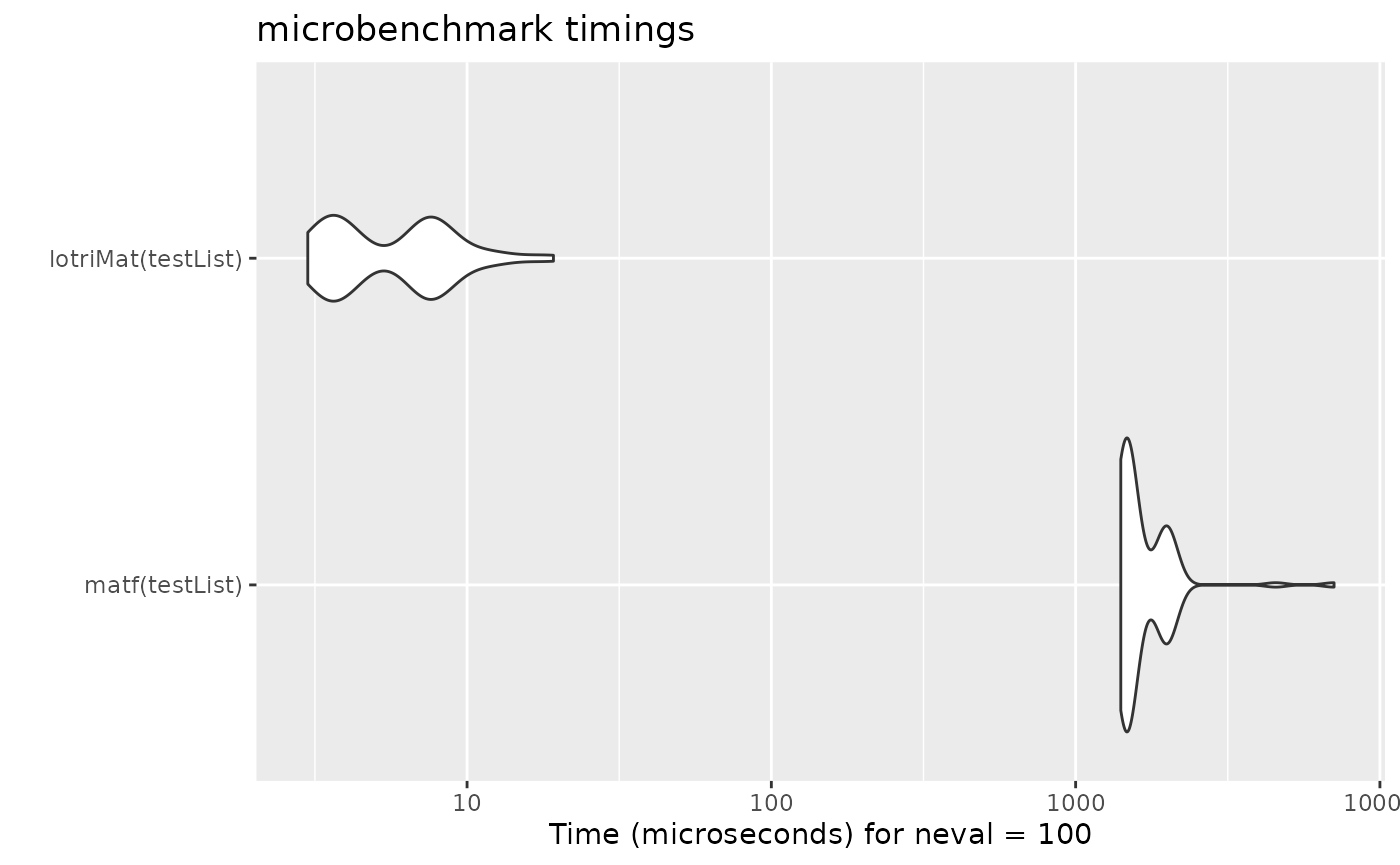
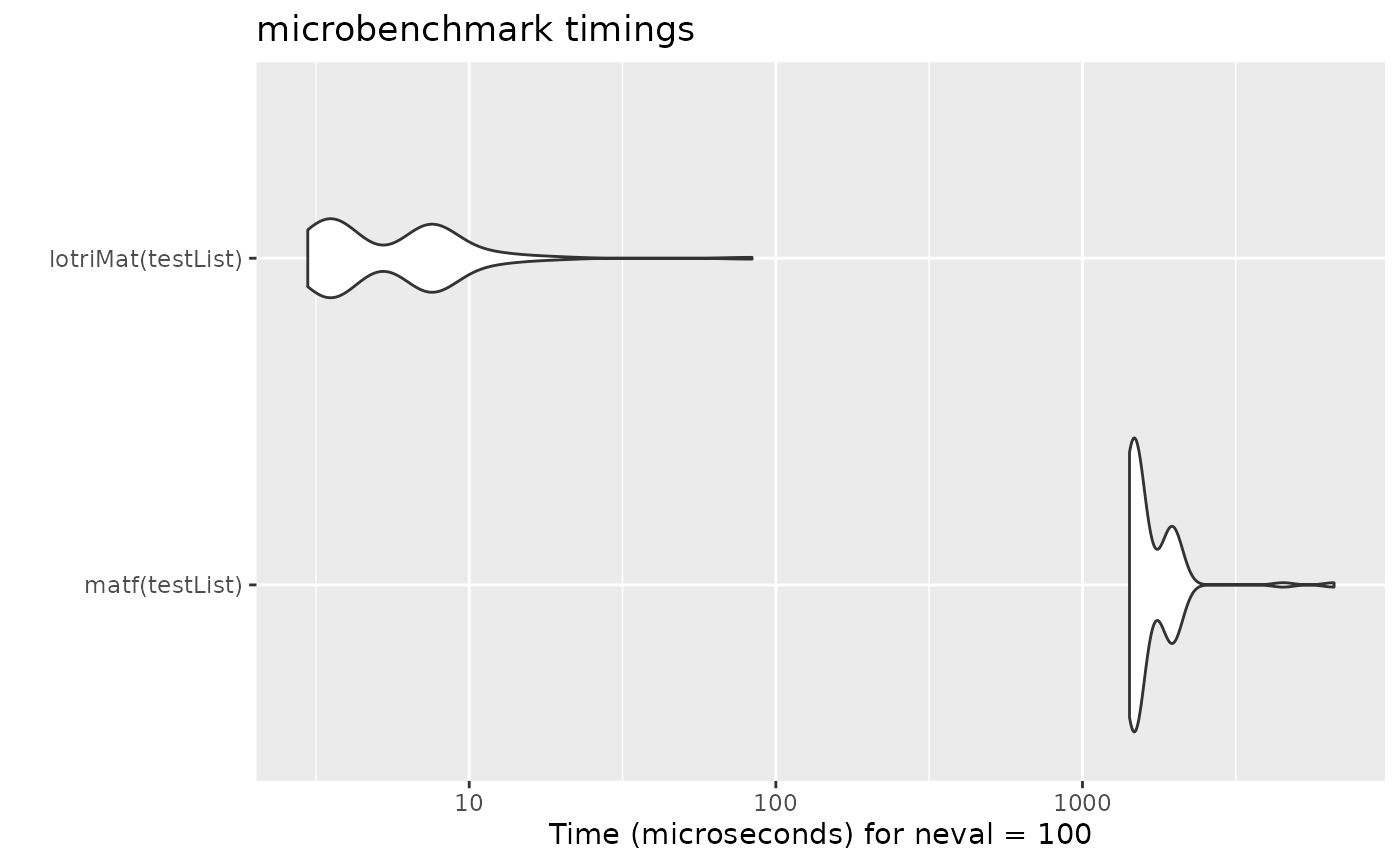
Deploying to gh-pages from @ nlmixr2/lotri@605e670a93a68d4b183b5b9a7d8c4a63ca274262 🚀

diff --git a/reference/dot-lotriPointers.html b/reference/dot-lotriPointers.html
@@ -59,34 +59,34 @@
     <div class="sourceCode"><pre class="sourceCode r"><code><span class="r-in"><span></span></span>
 <span class="r-in"><span><span class="fu">.lotriPointers</span><span class="op">(</span><span class="op">)</span></span></span>
 <span class="r-out co"><span class="r-pr">#&gt;</span> $lotriLstToMat</span>
-<span class="r-out co"><span class="r-pr">#&gt;</span> &lt;pointer: 0x7fd35de342c0&gt;</span>
+<span class="r-out co"><span class="r-pr">#&gt;</span> &lt;pointer: 0x7f48fd8112c0&gt;</span>
 <span class="r-out co"><span class="r-pr">#&gt;</span> </span>
 <span class="r-out co"><span class="r-pr">#&gt;</span> $asLotriMat</span>
-<span class="r-out co"><span class="r-pr">#&gt;</span> &lt;pointer: 0x7fd35de32460&gt;</span>
+<span class="r-out co"><span class="r-pr">#&gt;</span> &lt;pointer: 0x7f48fd80f460&gt;</span>
 <span class="r-out co"><span class="r-pr">#&gt;</span> </span>
 <span class="r-out co"><span class="r-pr">#&gt;</span> $lotriSep</span>
-<span class="r-out co"><span class="r-pr">#&gt;</span> &lt;pointer: 0x7fd35de35fb0&gt;</span>
+<span class="r-out co"><span class="r-pr">#&gt;</span> &lt;pointer: 0x7f48fd812fb0&gt;</span>
 <span class="r-out co"><span class="r-pr">#&gt;</span> </span>
 <span class="r-out co"><span class="r-pr">#&gt;</span> $lotriAllNames</span>
-<span class="r-out co"><span class="r-pr">#&gt;</span> &lt;pointer: 0x7fd35de36550&gt;</span>
+<span class="r-out co"><span class="r-pr">#&gt;</span> &lt;pointer: 0x7f48fd813550&gt;</span>
 <span class="r-out co"><span class="r-pr">#&gt;</span> </span>
 <span class="r-out co"><span class="r-pr">#&gt;</span> $lotriGetBounds</span>
-<span class="r-out co"><span class="r-pr">#&gt;</span> &lt;pointer: 0x7fd35de32a00&gt;</span>
+<span class="r-out co"><span class="r-pr">#&gt;</span> &lt;pointer: 0x7f48fd80fa00&gt;</span>
 <span class="r-out co"><span class="r-pr">#&gt;</span> </span>
 <span class="r-out co"><span class="r-pr">#&gt;</span> $lotriMaxNu</span>
-<span class="r-out co"><span class="r-pr">#&gt;</span> &lt;pointer: 0x7fd35de35a40&gt;</span>
+<span class="r-out co"><span class="r-pr">#&gt;</span> &lt;pointer: 0x7f48fd812a40&gt;</span>
 <span class="r-out co"><span class="r-pr">#&gt;</span> </span>
 <span class="r-out co"><span class="r-pr">#&gt;</span> $isLotri</span>
-<span class="r-out co"><span class="r-pr">#&gt;</span> &lt;pointer: 0x7fd35de36430&gt;</span>
+<span class="r-out co"><span class="r-pr">#&gt;</span> &lt;pointer: 0x7f48fd813430&gt;</span>
 <span class="r-out co"><span class="r-pr">#&gt;</span> </span>
 <span class="r-out co"><span class="r-pr">#&gt;</span> $lotriRcm</span>
-<span class="r-out co"><span class="r-pr">#&gt;</span> &lt;pointer: 0x7fd35de410f0&gt;</span>
+<span class="r-out co"><span class="r-pr">#&gt;</span> &lt;pointer: 0x7f48fd81e0f0&gt;</span>
 <span class="r-out co"><span class="r-pr">#&gt;</span> </span>
 <span class="r-out co"><span class="r-pr">#&gt;</span> $lotriNearPDc</span>
-<span class="r-out co"><span class="r-pr">#&gt;</span> &lt;pointer: 0x7fd35de3bb70&gt;</span>
+<span class="r-out co"><span class="r-pr">#&gt;</span> &lt;pointer: 0x7f48fd818b70&gt;</span>
 <span class="r-out co"><span class="r-pr">#&gt;</span> </span>
 <span class="r-out co"><span class="r-pr">#&gt;</span> $lotriNearPDsexp</span>
-<span class="r-out co"><span class="r-pr">#&gt;</span> &lt;pointer: 0x7fd35de3c0b0&gt;</span>
+<span class="r-out co"><span class="r-pr">#&gt;</span> &lt;pointer: 0x7f48fd8190b0&gt;</span>
 <span class="r-out co"><span class="r-pr">#&gt;</span> </span>
 </code></pre></div>
     </div>

diff --git a/articles/lotri-motivation.html b/articles/lotri-motivation.html
@@ -227,9 +227,9 @@ concatenation with <code>lotriMat</code></p>
 <span></span>
 <span><span class="fu"><a href="https://rdrr.io/r/base/print.html" class="external-link">print</a></span><span class="op">(</span><span class="va">mb</span><span class="op">)</span></span>
 <span><span class="co">#&gt; Unit: microseconds</span></span>
-<span><span class="co">#&gt;                expr      min       lq       mean   median       uq      max</span></span>
-<span><span class="co">#&gt;      matf(testList) 1407.369 1457.302 1706.04029 1489.517 1958.698 7068.422</span></span>
-<span><span class="co">#&gt;  lotriMat(testList)    2.996    3.657    6.30684    6.798    7.815   19.226</span></span>
+<span><span class="co">#&gt;                expr      min       lq       mean   median        uq      max</span></span>
+<span><span class="co">#&gt;      matf(testList) 1423.715 1459.312 1692.60052 1495.157 1941.3345 6615.746</span></span>
+<span><span class="co">#&gt;  lotriMat(testList)    2.975    3.507    6.77795    5.500    7.5745   83.676</span></span>
 <span><span class="co">#&gt;  neval</span></span>
 <span><span class="co">#&gt;    100</span></span>
 <span><span class="co">#&gt;    100</span></span>
